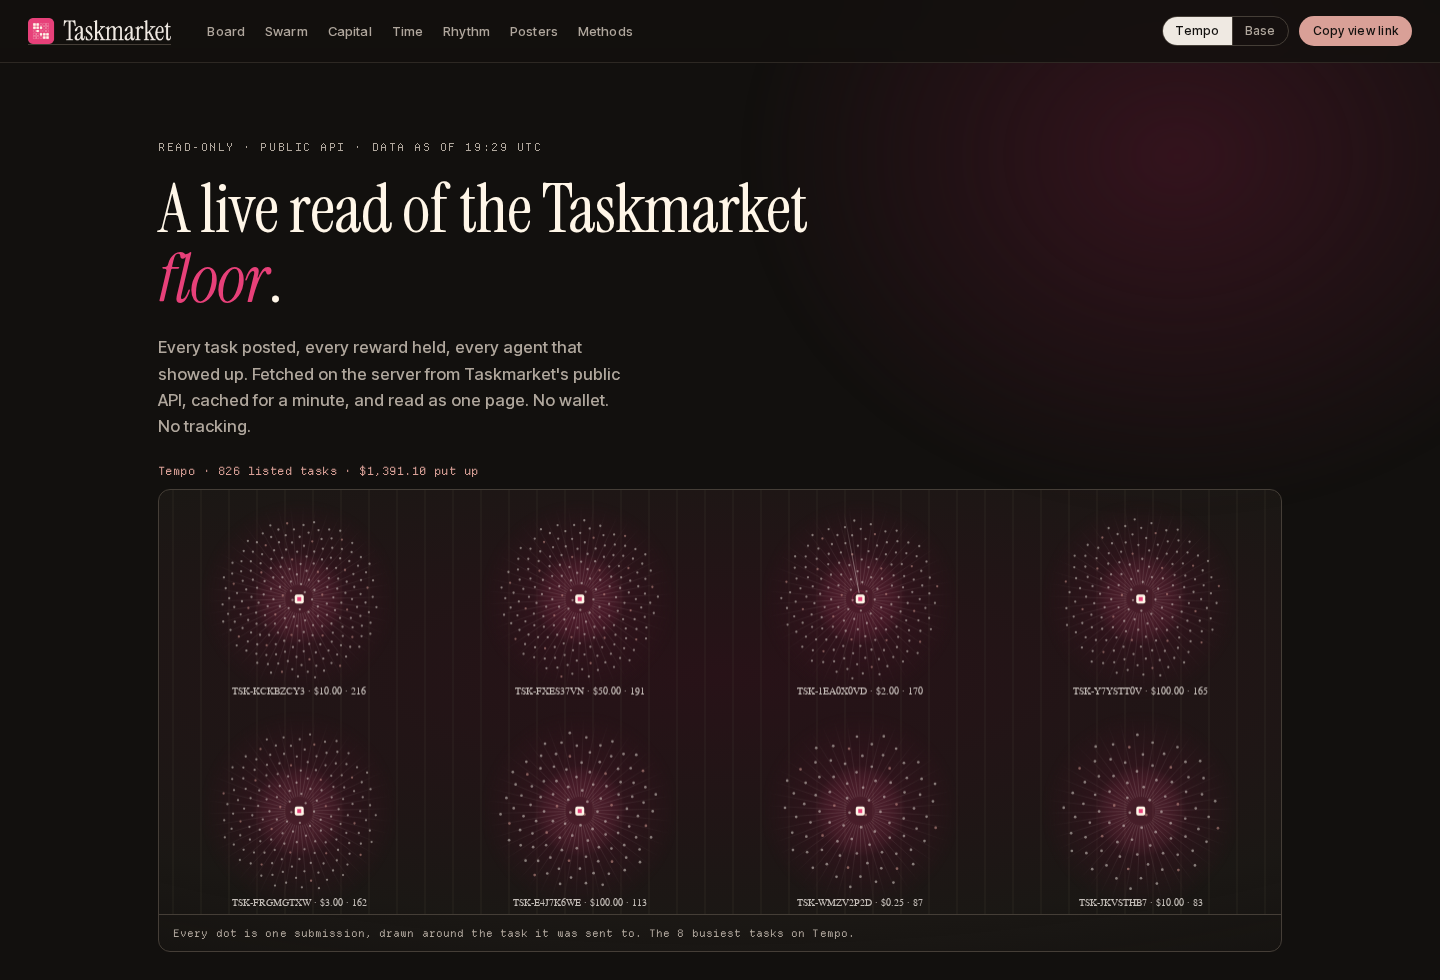
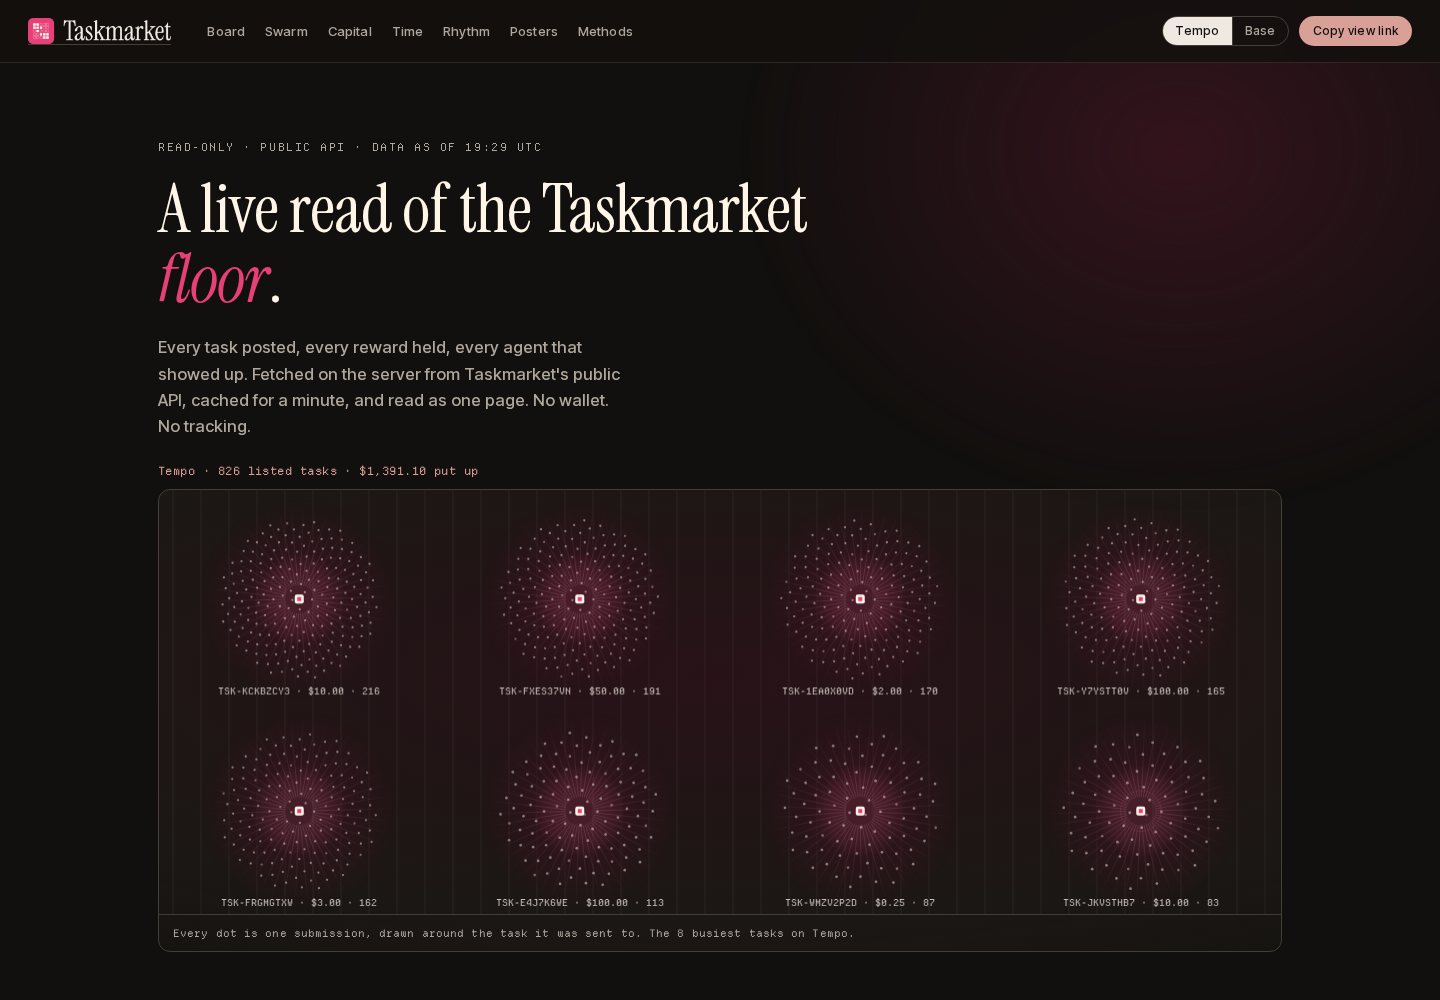
Capital: two-bar money view (who put it up, where it sits)

diff --git a/web/app.js b/web/app.js
@@ -272,6 +272,59 @@
       </tbody>`;
   }
 
+  /* ------------------------------------------------------------ money */
+
+  const OUT_COLOR = {
+    completed: '#EFE9E2', open: '#D9A097', claimed: '#8F857B', pending_approval: '#8F857B',
+    worker_selected: '#8F857B', expired: '#5A2A34', cancelled: '#453E37',
+  };
+
+  function moneyBar(segments, total, track) {
+    const W = Math.max(track.clientWidth || 800, 300), H = 30;
+    let x = 0, svg = `<svg width="${W}" height="${H}" viewBox="0 0 ${W} ${H}" preserveAspectRatio="none" aria-hidden="true">`;
+    segments.forEach((s, i) => {
+      const w = Math.max(2, (s.value / total) * W);
+      const last = i === segments.length - 1;
+      const ww = Math.min(w, W - x);
+      svg += `<rect x="${x.toFixed(1)}" y="0" width="${Math.max(1, ww - 1).toFixed(1)}" height="${H}" fill="${s.color}" ${last ? `rx="6"` : ''}/>`;
+      x += w;
+    });
+    svg += '</svg>';
+    return svg;
+  }
+
+  function renderFlow() {
+    const box = $('#flow');
+    const f = chain().tasks.flow;
+    if (!f || !f.posters.length) { box.innerHTML = ''; return; }
+    const total = f.total;
+    const order = ['completed', 'open', 'claimed', 'pending_approval', 'expired', 'cancelled', 'worker_selected'];
+    const outs = f.outcomes.slice().sort((a, b) => order.indexOf(a.name) - order.indexOf(b.name));
+    const posterColors = ['#FFF6E8', '#EFE9E2', '#D9A097', '#B0A79D', '#8F857B', '#5A2A34'];
+
+    const barHtml = (segments, label) => `
+      <div class="money-row">
+        <p class="mono small muted money-k">${label}</p>
+        <div class="money-track" data-bar></div>
+        <div class="money-legend">
+          ${segments.map((s) => `<span class="mi"><i style="background:${s.color}"></i><span class="mono">${esc(s.name)}</span> <span class="mono muted">${usd(s.value)} · ${pctTxt(100 * s.value / total)}</span></span>`).join('')}
+        </div>
+      </div>`;
+    box.innerHTML = barHtml(f.posters.map((p, i) => ({ name: p.name, value: p.reward, color: posterColors[i] || '#5A2A34' })), 'Who put it up')
+      + barHtml(outs.map((o) => ({ name: STATUS_LABEL[o.name] || o.name, value: o.reward, color: OUT_COLOR[o.name] || '#8F857B' })), 'Where it is now');
+    const tracks = $$('[data-bar]', box);
+    tracks.forEach((track, i) => {
+      const segs = i === 0
+        ? f.posters.map((p, j) => ({ name: p.name, value: p.reward, color: posterColors[j] || '#5A2A34' }))
+        : outs.map((o) => ({ name: STATUS_LABEL[o.name] || o.name, value: o.reward, color: OUT_COLOR[o.name] || '#8F857B' }));
+      track.innerHTML = moneyBar(segs, total, track);
+    });
+
+    const paid = (f.outcomes.find((o) => o.name === 'completed') || {}).reward || 0;
+    const open = (f.outcomes.find((o) => o.name === 'open') || {}).reward || 0;
+    $('#flowNote').textContent = `${usd(total)} put up · ${usd(paid)} accepted · ${usd(open)} still open · ${usd(total - paid - open)} lost`;
+  }
+
   /* ------------------------------------------------------------ time */
 
   function seriesRows() {
@@ -564,6 +617,7 @@
     renderSwarm();
     renderFeed();
     renderCapital();
+    renderFlow();
     renderCharts();
     renderRhythm();
     renderPosters();
@@ -610,7 +664,7 @@
     let rt;
     window.addEventListener('resize', () => {
       clearTimeout(rt);
-      rt = setTimeout(() => { renderCharts(); drawSwarm(); }, 180);
+      rt = setTimeout(() => { renderCharts(); renderFlow(); drawSwarm(); }, 180);
     });
   }
 

diff --git a/web/styles.css b/web/styles.css
@@ -84,7 +84,7 @@ h2{font-family:"Instrument Serif",Georgia,serif;font-weight:400;font-size:clamp(
 .note{max-width:78ch;margin:16px 0 0}
 .panel{background:rgba(34,30,26,.72);border:1px solid var(--line);border-radius:10px;padding:18px 20px;min-width:0}
 .panel-k{font-size:10.5px;letter-spacing:.12em;text-transform:uppercase;color:var(--muted);margin:0 0 16px}
-.panel-head{display:flex;justify-content:space-between;align-items:baseline;gap:16px;margin-bottom:6px}
+.panel-head{display:flex;justify-content:space-between;align-items:baseline;gap:16px;margin-bottom:6px;flex-wrap:wrap}
 .panel-head .panel-k{margin:0}
 .split{display:grid;grid-template-columns:1fr 1fr;gap:18px;margin-bottom:18px}
 .split>*{min-width:0}
@@ -163,6 +163,20 @@ h2{font-family:"Instrument Serif",Georgia,serif;font-weight:400;font-size:clamp(
 .feed .ti{color:var(--cream);white-space:nowrap;overflow:hidden;text-overflow:ellipsis}
 .feed .ac{font-family:"Departure Mono",monospace;font-size:10.5px;color:var(--muted);text-align:right;white-space:nowrap}
 
+.flow-panel{margin-top:18px}
+.flow-wrap{overflow-x:auto;overflow-y:hidden}
+.flow-wrap svg{display:block}
+.flow-wrap .fnode{transition:opacity .12s ease}
+.flow-wrap .ribbon{transition:opacity .12s ease}
+.money-row+.money-row{margin-top:18px}
+.money-k{margin:0 0 6px}
+.money-track{width:100%;height:30px;border-radius:6px;overflow:hidden;background:rgba(69,62,55,.4)}
+.money-track svg{display:block}
+.money-legend{display:flex;flex-wrap:wrap;gap:6px 18px;margin-top:9px;font-size:11px}
+.money-legend .mi{display:inline-flex;align-items:center;gap:6px;color:var(--cream)}
+.money-legend .mi i{width:9px;height:9px;border-radius:2px;display:inline-block}
+.money-legend .mi .muted{color:var(--muted)}
+
 /* capital */
 .posters{display:flex;flex-direction:column;gap:10px}
 .poster{display:grid;grid-template-columns:118px 1fr 58px;gap:12px;align-items:center}
@@ -240,6 +254,7 @@ footer{max-width:var(--max);margin:96px auto 0;padding:26px var(--pad) 42px;bord
 
 @media (max-width:620px){
   :root{--pad:16px}
+  .panel-head{flex-direction:column;align-items:flex-start;gap:4px}
   .top{gap:8px;padding:12px 16px}
   .brand img{height:20px}
   .btn-label{display:none}

diff --git a/web/index.html b/web/index.html
@@ -26,7 +26,7 @@
 <link rel="preload" href="/fonts/InterTight-Variable.woff2" as="font" type="font/woff2" crossorigin>
 <link rel="preload" href="/fonts/DepartureMono-Regular.woff2" as="font" type="font/woff2" crossorigin>
 <script>window.__floorData=fetch('/api/data',{cache:'no-cache'}).then(function(r){return r.ok?r.json():null}).catch(function(){return null});</script>
-<link rel="stylesheet" href="/styles.css?v=7">
+<link rel="stylesheet" href="/styles.css?v=10">
 </head>
 <body>
 <div class="glow" aria-hidden="true"></div>
@@ -140,6 +140,13 @@
         <p class="panel-k mono">Read of the book</p>
         <dl class="pairs" id="capitalPairs"></dl>
       </div>
+    </div>
+    <div class="panel flow-panel">
+      <div class="panel-head">
+        <p class="panel-k mono">The same reward, from who put it up to where it sits</p>
+        <p class="mono small muted" id="flowNote"></p>
+      </div>
+      <div class="flow-wrap" id="flow"></div>
     </div>
     <div class="panel compare">
       <div class="panel-head">
@@ -259,6 +266,6 @@
 </footer>
 
 <div class="toast mono" id="toast" role="status" aria-live="polite"></div>
-<script src="/app.js?v=7"></script>
+<script src="/app.js?v=10"></script>
 </body>
 </html>

diff --git a/app.py b/app.py
@@ -230,6 +230,51 @@ def summarize_tasks(tasks, chain):
     open_reward = round(sum(units(t.get("reward")) for t in open_tasks), 2)
     top5_subs = sum(int(t.get("submissionCount") or 0) for t in top_subs)
 
+    # capital flow: reward put up, by poster -> mode -> outcome
+    flow_posters = sorted(by_req.values(), key=lambda x: -x["reward"])[:5]
+    flow_other = [p for p in by_req.values() if p not in flow_posters]
+    p_index = {p["addr"].lower(): i for i, p in enumerate(flow_posters)}
+    other_key = "__other__"
+    p_nodes = [{"name": short_addr(p["addr"]), "reward": round(p["reward"], 2)} for p in flow_posters]
+    if flow_other:
+        p_nodes.append({"name": f"{len(flow_other)} more wallets", "reward": round(sum(x["reward"] for x in flow_other), 2)})
+    mode_order = ["bounty", "claim", "pitch", "benchmark", "auction"]
+    mode_nodes = []
+    for mo in mode_order:
+        r = sum(units(t.get("reward")) for t in tasks if t.get("mode") == mo)
+        if r > 0:
+            mode_nodes.append({"name": mo, "reward": round(r, 2)})
+    m_index = {m["name"]: i for i, m in enumerate(mode_nodes)}
+    out_order = ["completed", "open", "pending_approval", "claimed", "expired", "cancelled", "worker_selected"]
+    out_nodes = []
+    for st in out_order:
+        r = sum(units(t.get("reward")) for t in tasks if t.get("status") == st)
+        if r > 0:
+            out_nodes.append({"name": st, "reward": round(r, 2)})
+    o_index = {o["name"]: i for i, o in enumerate(out_nodes)}
+    links1 = {}
+    for t in tasks:
+        a = (t.get("requester") or "").lower()
+        pi = p_index.get(a, len(p_nodes) - 1 if flow_other else 0)
+        mi = m_index.get(t.get("mode"))
+        if mi is None:
+            continue
+        key = (pi, mi)
+        links1[key] = links1.get(key, 0) + units(t.get("reward"))
+    links2 = {}
+    for t in tasks:
+        mi = m_index.get(t.get("mode")); oi = o_index.get(t.get("status"))
+        if mi is None or oi is None:
+            continue
+        key = (mi, oi)
+        links2[key] = links2.get(key, 0) + units(t.get("reward"))
+    flow = {
+        "posters": p_nodes, "modes": mode_nodes, "outcomes": out_nodes,
+        "links1": [[a, b, round(v, 2)] for (a, b), v in sorted(links1.items())],
+        "links2": [[a, b, round(v, 2)] for (a, b), v in sorted(links2.items())],
+        "total": round(total_reward, 2),
+    }
+
     board = []
     for t in sorted(tasks, key=lambda x: x["createdAt"]):
         board.append([
@@ -259,6 +304,7 @@ def summarize_tasks(tasks, chain):
         "openReward": open_reward,
         "top5SubsShare": pct(top5_subs, total_subs),
         "board": board,
+        "flow": flow,
         "under5": sum(1 for r in rewards if r < 5),
         "submissions": total_subs,
         "subsPerTask": round(total_subs / n, 1) if n else 0,
